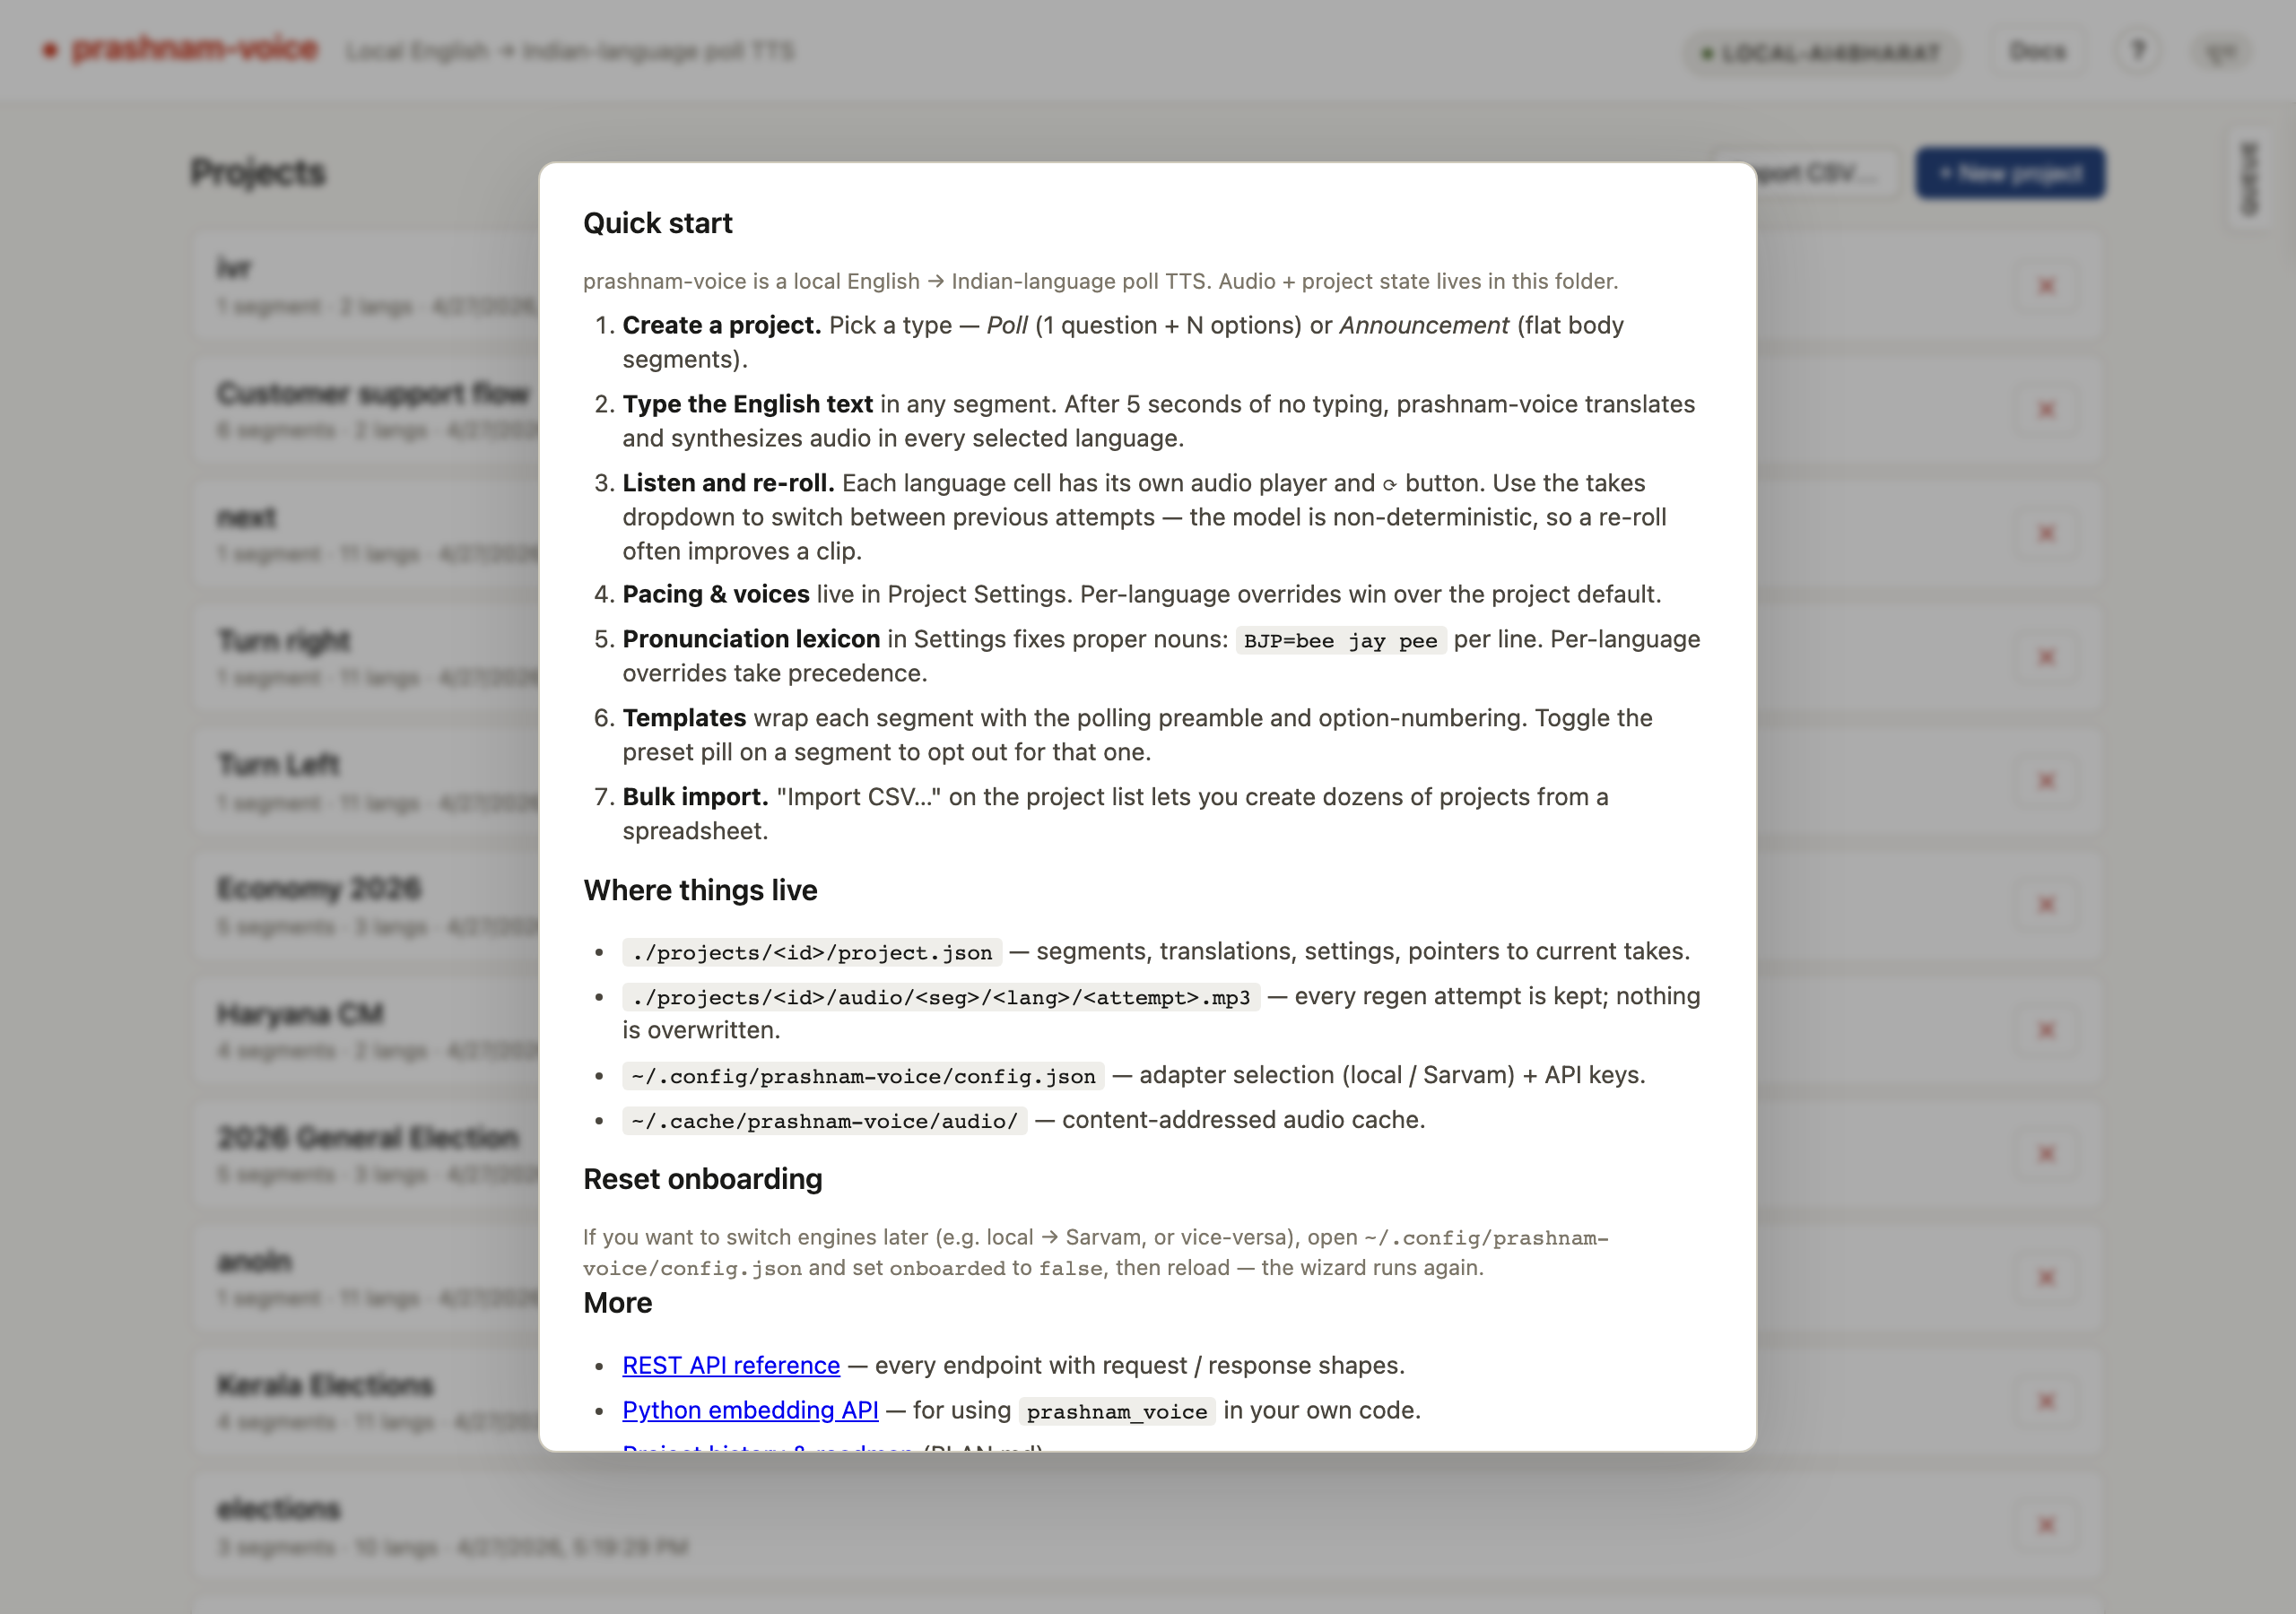
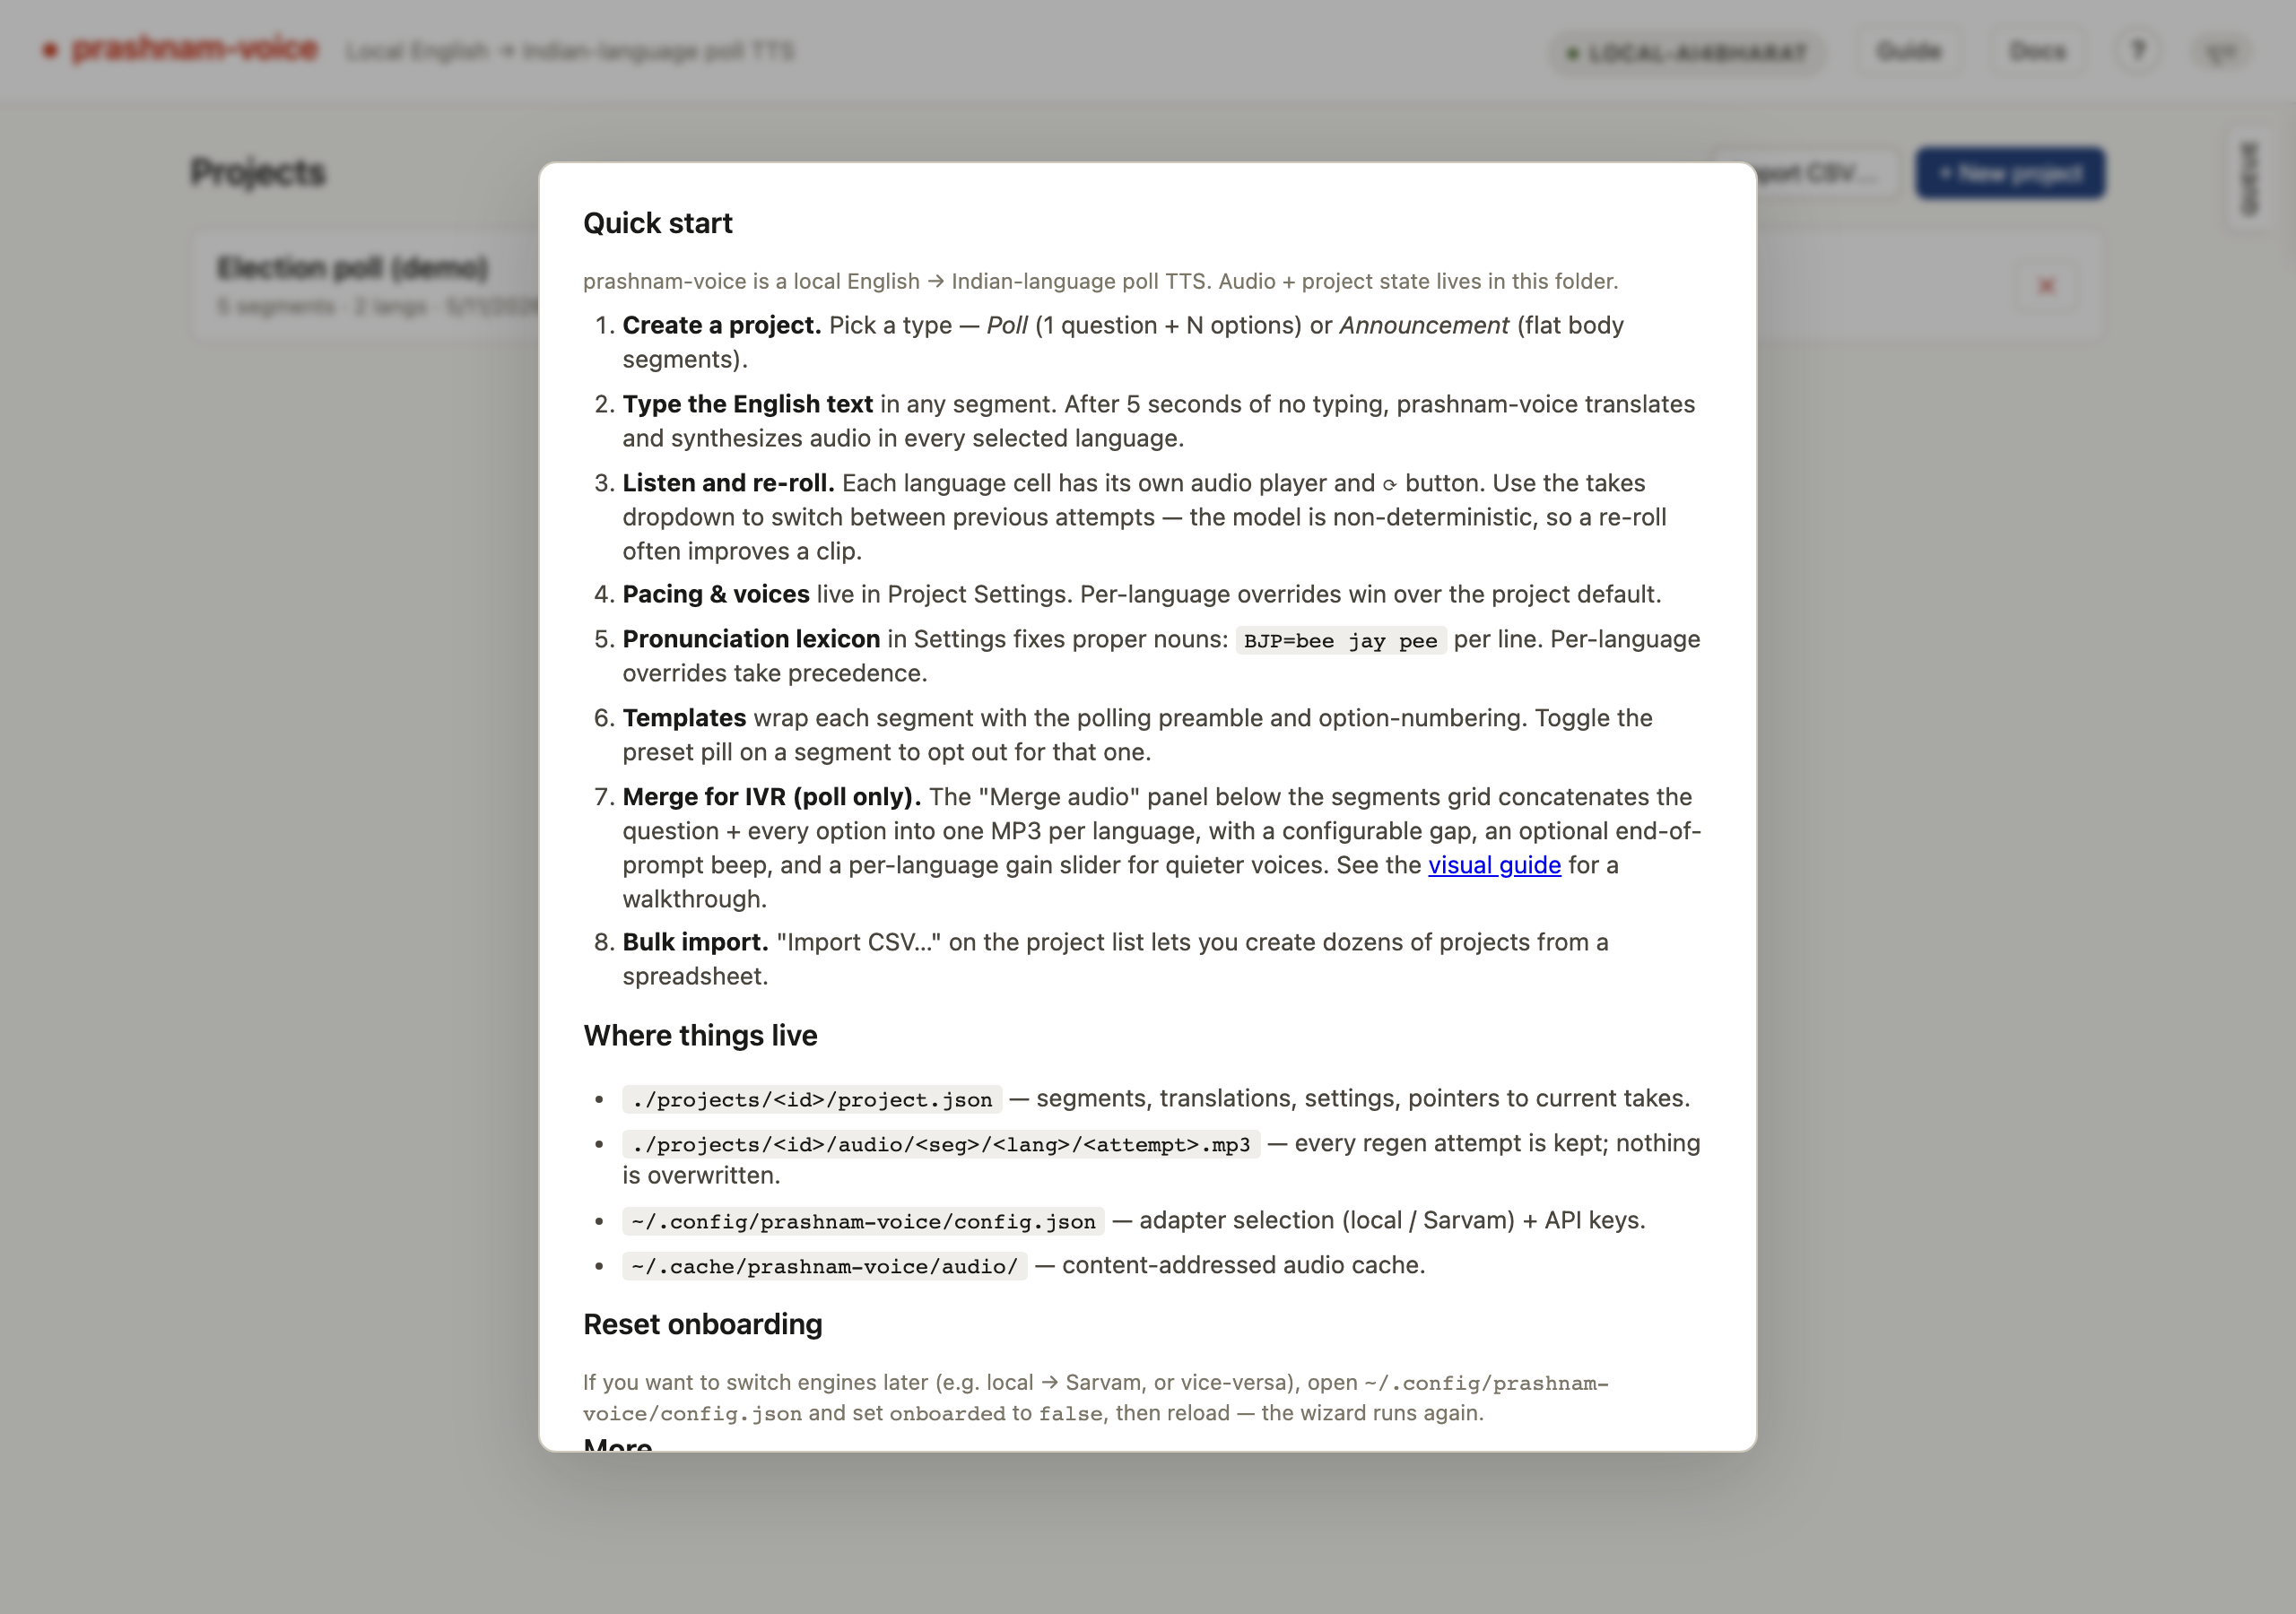
Visual guide for the merge feature + Guide link in the topbar
New section ("Merging audio for IVR upload") in guide/README.md covers the
gap/beep/preamble knobs, "Merge all languages", per-language gain, and the
out-of-date hint, with three screenshots captured against a real seeded
project.

Help modal Quick start now has a step about the Merge panel and links into
the visual guide. The topbar gains a dedicated "Guide" link so the
walkthrough is one click from every page (Docs already linked it, but
deeper).

Refreshed 01-project-list and 07-help-modal screenshots to reflect the
topbar's new Guide link and the new Quick start step.

diff --git a/prashnam_voice/server/static/index.html b/prashnam_voice/server/static/index.html
@@ -13,6 +13,7 @@
     <a href="/onboarding" id="topbar-engine" class="topbar-engine" title="Click to switch engines / re-run onboarding">
       <span class="engine-dot"></span><span id="topbar-engine-name">…</span>
     </a>
+    <a href="/docs#guide/README.md" class="topbar-link" title="Visual walkthrough with annotated screenshots">Guide</a>
     <a href="/docs" class="topbar-link" title="Open the documentation viewer">Docs</a>
     <button id="help-btn" class="topbar-help" type="button" title="Help" aria-label="Help">?</button>
     <span class="palette-credit" title="Palette: चूना · rangrez">चूना</span>
@@ -101,6 +102,7 @@
         <li><strong>Pacing &amp; voices</strong> live in Project Settings. Per-language overrides win over the project default.</li>
         <li><strong>Pronunciation lexicon</strong> in Settings fixes proper nouns: <code>BJP=bee jay pee</code> per line. Per-language overrides take precedence.</li>
         <li><strong>Templates</strong> wrap each segment with the polling preamble and option-numbering. Toggle the preset pill on a segment to opt out for that one.</li>
+        <li><strong>Merge for IVR (poll only).</strong> The "Merge audio" panel below the segments grid concatenates the question + every option into one MP3 per language, with a configurable gap, an optional end-of-prompt beep, and a per-language gain slider for quieter voices. See the <a href="/docs#guide/README.md">visual guide</a> for a walkthrough.</li>
         <li><strong>Bulk import.</strong> "Import CSV…" on the project list lets you create dozens of projects from a spreadsheet.</li>
       </ol>
 
@@ -117,10 +119,10 @@
 
       <h2>More</h2>
       <ul class="help-list">
+        <li><a href="/docs#guide/README.md"><strong>Visual guide</strong></a> — annotated screenshots of every major view (project editor, settings, IVR canvas, merge panel).</li>
         <li><a href="/docs#rest-api.md">REST API reference</a> — every endpoint with request / response shapes.</li>
         <li><a href="/docs#python-api.md">Python embedding API</a> — for using <code>prashnam_voice</code> in your own code.</li>
         <li><a href="/docs#PLAN.md">Project history &amp; roadmap</a> (PLAN.md).</li>
-        <li><a href="/docs#guide/README.md">Visual guide</a> — screenshots of every major view.</li>
         <li>Sample CSVs → <code>./examples/</code></li>
       </ul>
 

diff --git a/guide/README.md b/guide/README.md
@@ -22,6 +22,28 @@ Each segment shows its source text, the rendered IVR wrapper, and per-language t
 ![Project settings](05-project-settings.png)
 The collapsed disclosure expands into Languages (with per-language pace overrides), Pronunciation lexicon (global plus per-language), and Templates (the IVR wrappers around questions and options).
 
+## Merging audio for IVR upload  (poll only)
+![Merge section — empty state](10-merge-section.png)
+Below the segments grid on every poll project, "Merge audio" assembles the question + every option (in canonical order) into a single MP3 per language — the format most IVR systems want to ingest. Three knobs across the top:
+
+- **Gap (s)** — silence inserted between segments. Defaults to 1.0 s; bump it up for slower-paced flows or down for tight ones.
+- **Beep at end** — appends a short 800 Hz pulse so the IVR knows the prompt has finished. On by default.
+- **Include preamble** — picks between the templated lead-in ("Namaskar, this is a call from Prashnam…") and the bare-body version of the question. Toggling this changes which variant the Merge button produces.
+
+All three settings persist per project — the next merge starts with whatever you last used.
+
+![Merge section — after merging both languages](11-merge-section-after.png)
+"Merge all languages" runs every selected language in one pass and inline `<audio>` players appear with the result. Per-language **Merge** buttons re-roll just one row when you've fiddled with that language alone. The variant label next to each language name (e.g. "(with preamble)") makes it obvious which file the player is loading.
+
+Merged files land under `projects/<id>/merged/<lang>_with_preamble.mp3` (or `_no_preamble.mp3`) and are bundled into the project zip alongside the per-segment audio.
+
+### Per-language gain
+![Merge section — Hindi nudged to +3 dB](12-merge-gain-bumped.png)
+TTS voices don't all hit the same loudness — every clip is normalized to -16 LUFS during synthesis, but if one language still sounds quieter than the rest you can rescue it with the per-language **Gain** slider (capped at ±6 dB). Release the slider and the row auto-re-merges; the audio player picks up the new file automatically. The slider value is saved per project, so the next merge applies it without any extra clicks.
+
+### Out-of-date hint
+Any time you re-roll a segment's audio after merging, the affected language row turns amber and the status line reads "out of date — re-merge after regenerating." Hit **Merge** on that row (or **Merge all languages**) to refresh.
+
 ## Onboarding wizard
 ![Onboarding wizard](06-onboarding-wizard.png)
 First-time setup is just two clicks: pick an engine, then download. The "Run on this computer" engine ships the AI4Bharat models locally — no Hugging Face account, no token, no T&Cs click-through (we mirror the weights ungated under [`naklitechie/*`](https://huggingface.co/naklitechie)). "Sarvam.ai (cloud)" uses an API key instead.